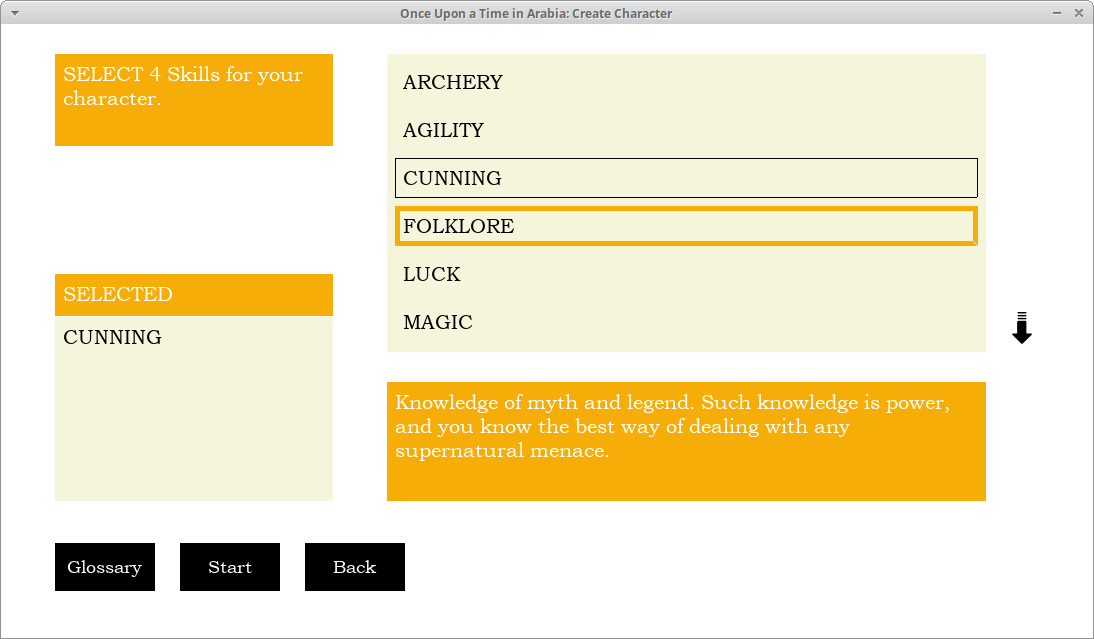
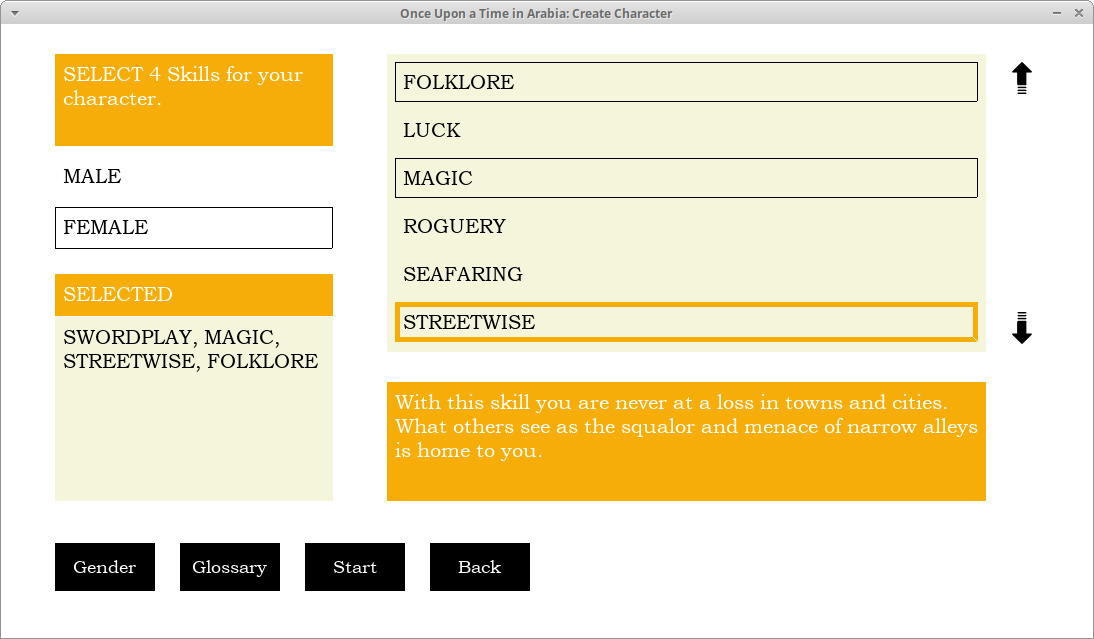
fix spacing in text buttons. implement male/female gender type selection

diff --git a/src/OnceUponATimeInArabia.cpp b/src/OnceUponATimeInArabia.cpp
@@ -66,7 +66,7 @@ Story::Base *processChoices(SDL_Window *window, SDL_Renderer *renderer, Characte
 Story::Base *renderChoices(SDL_Window *window, SDL_Renderer *renderer, Character::Base &player, Story::Base *story);
 
 void clipValue(int &val, int min, int max);
-void renderAdventurer(SDL_Window *window, SDL_Renderer *renderer, TTF_Font *font, Character::Base &player);
+void renderAdventurer(SDL_Window *window, SDL_Renderer *renderer, TTF_Font *font, Character::Base &player, Character::Gender gender);
 
 SDL_Surface *createImage(const char *image)
 {
@@ -449,7 +449,7 @@ std::vector<TextButton> createHTextButtons(const char **choices, int num, int te
         auto margin2 = (2.0 * Margin);
         auto marginleft = (1.0 - margin2);
 
-        auto pixels = (int)(SCREEN_WIDTH * Margin);
+        auto pixels = (int)(SCREEN_WIDTH * Margin) / 2;
         auto width = (int)(SCREEN_WIDTH * marginleft);
 
         auto text_spacew = width / num;
@@ -652,7 +652,7 @@ bool characterScreen(SDL_Window *window, SDL_Renderer *renderer, Character::Base
                 // Fill the surface with background color
                 fillWindow(renderer, intWH);
 
-                renderAdventurer(window, renderer, font, player);
+                renderAdventurer(window, renderer, font, player, Character::Gender::NONE);
 
                 if (player.Codewords.size() > 0 && codewords.length() > 0)
                 {
@@ -1844,7 +1844,7 @@ bool loseItems(SDL_Window *window, SDL_Renderer *renderer, Character::Base &play
     return done;
 }
 
-void renderAdventurer(SDL_Window *window, SDL_Renderer *renderer, TTF_Font *font, Character::Base &player)
+void renderAdventurer(SDL_Window *window, SDL_Renderer *renderer, TTF_Font *font, Character::Base &player, Character::Gender gender)
 {
     const int profilew = SCREEN_WIDTH * (1.0 - 2.0 * Margin);
     const int profileh = 0.12 * SCREEN_HEIGHT;
@@ -1918,6 +1918,25 @@ void renderAdventurer(SDL_Window *window, SDL_Renderer *renderer, TTF_Font *font
 
     putText(renderer, "Possessions", font, space, clrWH, intYW, TTF_STYLE_NORMAL, headerw, headerh, startx, starty + profileh + 3 * headerh + 3 * marginh + 2 * boxh);
     putText(renderer, player.Items.size() > 0 ? possessions.c_str() : "(None)", font, space, clrBK, intBE, TTF_STYLE_NORMAL, profilew, profileh, startx, starty + profileh + 4 * headerh + 3 * marginh + 2 * boxh);
+
+    if (gender != Character::Gender::NONE)
+    {
+        auto genderx = (int)(SCREEN_WIDTH * (1.0 - 2.0 * Margin) / 2) + startx;
+        auto genderh = (int)(0.07 * SCREEN_HEIGHT) - space;
+        auto genderw = splashw / 2;
+
+        putText(renderer, "MALE", font, 8, clrBK, intWH, TTF_STYLE_NORMAL, genderw, genderh, genderx, starty);
+        putText(renderer, "FEMALE", font, 8, clrBK, intWH, TTF_STYLE_NORMAL, genderw, genderh, genderx + genderw + 2 * space, starty);
+
+        if (gender == Character::Gender::MALE)
+        {
+            drawRect(renderer, genderw, genderh, genderx, starty, intBK);
+        }
+        else
+        {
+            drawRect(renderer, genderw, genderh, genderx + genderw + 2 * space, starty, intBK);
+        }
+    }
 }
 
 std::vector<Button> skillsList(SDL_Window *window, SDL_Renderer *renderer, int start, int last, int limit)
@@ -1970,9 +1989,10 @@ std::vector<Button> skillsList(SDL_Window *window, SDL_Renderer *renderer, int s
     auto button_space = 25;
     auto button_height = 48;
 
-    controls.push_back(Button(idx, createHeaderButton(window, "Glossary", clrWH, intBK, button_width, button_height, -1), idx - 1, idx + 1, idx - 1, idx, startx, buttony, Control::Type::GLOSSARY));
-    controls.push_back(Button(idx + 1, createHeaderButton(window, "Start", clrWH, intBK, button_width, button_height, -1), idx, idx + 2, idx - 1, idx + 1, startx + button_width + button_space, buttony, Control::Type::NEW));
-    controls.push_back(Button(idx + 2, createHeaderButton(window, "Back", clrWH, intBK, button_width, button_height, -1), idx + 1, idx + 2, idx - 1, idx + 2, startx + 2 * (button_width + button_space), buttony, Control::Type::BACK));
+    controls.push_back(Button(idx, createHeaderButton(window, "Gender", clrWH, intBK, button_width, button_height, -1), idx - 1, idx + 1, idx - 1, idx, startx, buttony, Control::Type::GENDER));
+    controls.push_back(Button(idx + 1, createHeaderButton(window, "Glossary", clrWH, intBK, button_width, button_height, -1), idx, idx + 2, idx - 1, idx + 1, startx + button_width + button_space, buttony, Control::Type::GLOSSARY));
+    controls.push_back(Button(idx + 2, createHeaderButton(window, "Start", clrWH, intBK, button_width, button_height, -1), idx + 1, idx + 3, idx - 1, idx + 2, startx + 2 * (button_width + button_space), buttony, Control::Type::NEW));
+    controls.push_back(Button(idx + 3, createHeaderButton(window, "Back", clrWH, intBK, button_width, button_height, -1), idx + 3, idx + 2, idx - 1, idx + 3, startx + 3 * (button_width + button_space), buttony, Control::Type::BACK));
 
     return controls;
 }
@@ -1984,6 +2004,8 @@ Character::Base customCharacter(SDL_Window *window, SDL_Renderer *renderer)
     auto done = false;
 
     Character::Base player = Character::Base();
+
+    auto gender = Character::Gender::MALE;
 
     // Render the image
     if (window && renderer)
@@ -2027,6 +2049,9 @@ Character::Base customCharacter(SDL_Window *window, SDL_Renderer *renderer)
         auto infoh = 0.07 * SCREEN_HEIGHT;
         auto boxh = 0.150 * SCREEN_HEIGHT;
         auto box_space = 10;
+
+        auto genderh = infoh;
+        auto genderw = splashw;
 
         while (!done)
         {
@@ -2103,6 +2128,18 @@ Character::Base customCharacter(SDL_Window *window, SDL_Renderer *renderer)
             if (!flash_message)
             {
                 putText(renderer, "SELECT 4 Skills for your character.", font, text_space, clrWH, intYW, TTF_STYLE_NORMAL, splashw, boxh, startx, starty);
+            }
+
+            putText(renderer, "MALE", font, 8, clrBK, intWH, TTF_STYLE_NORMAL, genderw, genderh, startx, starty + boxh + box_space);
+            putText(renderer, "FEMALE", font, 8, clrBK, intWH, TTF_STYLE_NORMAL, genderw, genderh, startx, starty + boxh + box_space + genderh + text_space);
+
+            if (gender == Character::Gender::MALE)
+            {
+                drawRect(renderer, genderw, genderh, startx, starty + boxh + box_space, intBK);
+            }
+            else
+            {
+                drawRect(renderer, genderw, genderh, startx, starty + boxh + box_space + genderh + text_space, intBK);
             }
 
             renderButtons(renderer, controls, current, intYW, 8, 4);
@@ -2234,6 +2271,7 @@ Character::Base customCharacter(SDL_Window *window, SDL_Renderer *renderer)
 
                         Character::CUSTOM.Money = 12;
                         Character::CUSTOM.Life = 10;
+                        Character::CUSTOM.Gender = gender;
 
                         player = Character::CUSTOM;
 
@@ -2265,6 +2303,19 @@ Character::Base customCharacter(SDL_Window *window, SDL_Renderer *renderer)
                     glossaryScreen(window, renderer, Skill::ALL);
 
                     current = -1;
+
+                    selected = false;
+                }
+                else if (controls[current].Type == Control::Type::GENDER)
+                {
+                    if (gender == Character::Gender::MALE)
+                    {
+                        gender = Character::Gender::FEMALE;
+                    }
+                    else
+                    {
+                        gender = Character::Gender::MALE;
+                    }
 
                     selected = false;
                 }
@@ -2313,17 +2364,19 @@ Character::Base selectCharacter(SDL_Window *window, SDL_Renderer *renderer)
         auto main_buttonh = 48;
         auto font_size = 18;
         auto font20 = 20;
+        auto gender = Character::Gender::MALE;
 
-        const char *choices[6] = {"Previous", "Next", "Glossary", "Custom", "Start", "Back"};
+        const char *choices[7] = {"Previous", "Next", "Gender", "Glossary", "Custom", "Start", "Back"};
 
-        auto controls = createHTextButtons(choices, 6, main_buttonh, startx, SCREEN_HEIGHT * (1.0 - Margin) - main_buttonh);
+        auto controls = createHTextButtons(choices, 7, main_buttonh, startx, SCREEN_HEIGHT * (1.0 - Margin) - main_buttonh);
 
         controls[0].Type = Control::Type::BACK;
         controls[1].Type = Control::Type::NEXT;
-        controls[2].Type = Control::Type::GLOSSARY;
-        controls[3].Type = Control::Type::CUSTOM;
-        controls[4].Type = Control::Type::NEW;
-        controls[5].Type = Control::Type::QUIT;
+        controls[2].Type = Control::Type::GENDER;
+        controls[3].Type = Control::Type::GLOSSARY;
+        controls[4].Type = Control::Type::CUSTOM;
+        controls[5].Type = Control::Type::NEW;
+        controls[6].Type = Control::Type::QUIT;
 
         TTF_Init();
 
@@ -2333,7 +2386,7 @@ Character::Base selectCharacter(SDL_Window *window, SDL_Renderer *renderer)
         {
             SDL_SetWindowTitle(window, title.c_str());
 
-            renderAdventurer(window, renderer, font, Character::Classes[character]);
+            renderAdventurer(window, renderer, font, Character::Classes[character], gender);
 
             renderTextButtons(renderer, controls, FONT_FILE, current, clrWH, intBK, intRD, font20, TTF_STYLE_NORMAL);
 
@@ -2348,6 +2401,8 @@ Character::Base selectCharacter(SDL_Window *window, SDL_Renderer *renderer)
                 if (controls[current].Type == Control::Type::NEW)
                 {
                     player = Character::Classes[character];
+
+                    player.Gender = gender;
 
                     current = -1;
 
@@ -2369,6 +2424,17 @@ Character::Base selectCharacter(SDL_Window *window, SDL_Renderer *renderer)
                     if (character < Character::Classes.size() - 1)
                     {
                         character++;
+                    }
+                }
+                else if (controls[current].Type == Control::Type::GENDER)
+                {
+                    if (gender == Character::Gender::MALE)
+                    {
+                        gender = Character::Gender::FEMALE;
+                    }
+                    else
+                    {
+                        gender = Character::Gender::MALE;
                     }
                 }
                 else if (controls[current].Type == Control::Type::GLOSSARY)
@@ -2579,6 +2645,7 @@ bool saveGame(Character::Base &player, const char *overwrite)
     data["name"] = player.Name;
     data["description"] = player.Description;
     data["type"] = player.Type;
+    data["gender"] = player.Gender;
     data["life"] = player.Life;
     data["money"] = player.Money;
     data["itemLimit"] = player.ITEM_LIMIT;
@@ -2665,6 +2732,13 @@ Character::Base loadGame(std::string file_name)
 
         auto type = static_cast<Character::Type>((int)data["type"]);
 
+        auto gender = Character::Gender::MALE;
+
+        if (!data["gender"].is_null())
+        {
+            gender = static_cast<Character::Gender>((int)data["gender"]);
+        }
+
         auto skills = std::vector<Skill::Base>();
         auto items = std::vector<Item::Base>();
         auto codewords = std::vector<Codeword::Type>();
@@ -2734,6 +2808,8 @@ Character::Base loadGame(std::string file_name)
         character.MAX_LIFE_LIMIT = (int)data["lifeLimit"];
         character.SKILLS_LIMIT = (int)data["skillsLimit"];
         character.StoryID = (int)data["storyID"];
+
+        character.Gender = gender; 
 
         try
         {

diff --git a/src/character.hpp b/src/character.hpp
@@ -10,6 +10,13 @@
 
 namespace Character
 {
+    enum class Gender
+    {
+        NONE = 0,
+        MALE,
+        FEMALE
+    };
+
     enum class Type
     {
         CUSTOM = 0,
@@ -54,6 +61,8 @@ namespace Character
         int LostMoney = 0;
 
         int StoryID = 0;
+
+        Character::Gender Gender = Character::Gender::MALE;
 
 #if defined(_WIN32) || defined(__arm__)
         long long Epoch = 0;

diff --git a/src/controls.hpp b/src/controls.hpp
@@ -41,7 +41,8 @@ namespace Control
         NO,
         BUY,
         SELL,
-        BARTER
+        BARTER,
+        GENDER
     };
 
     class Base
